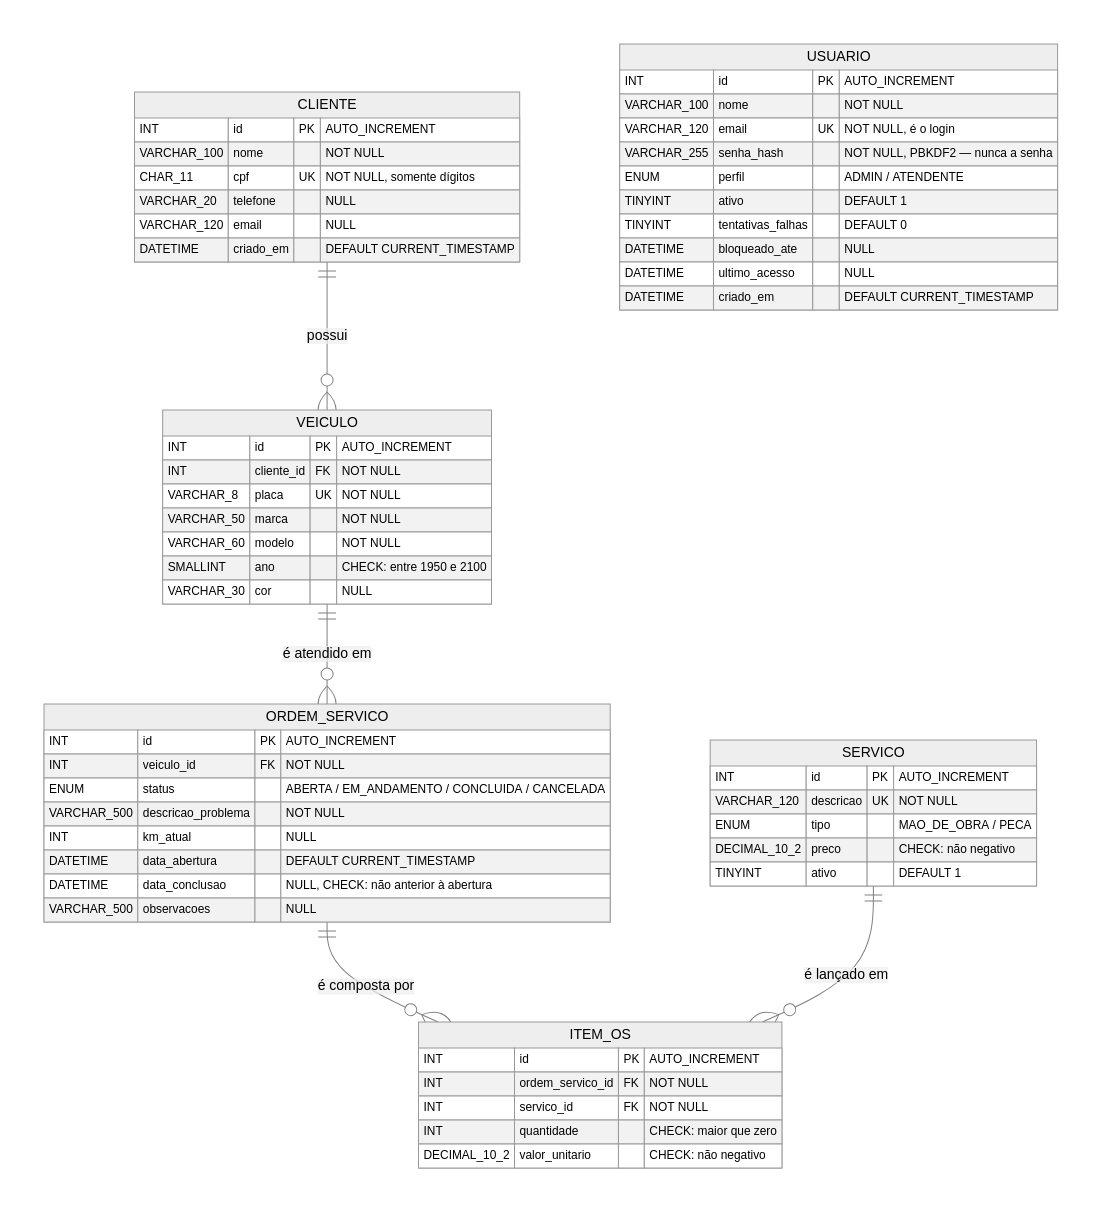
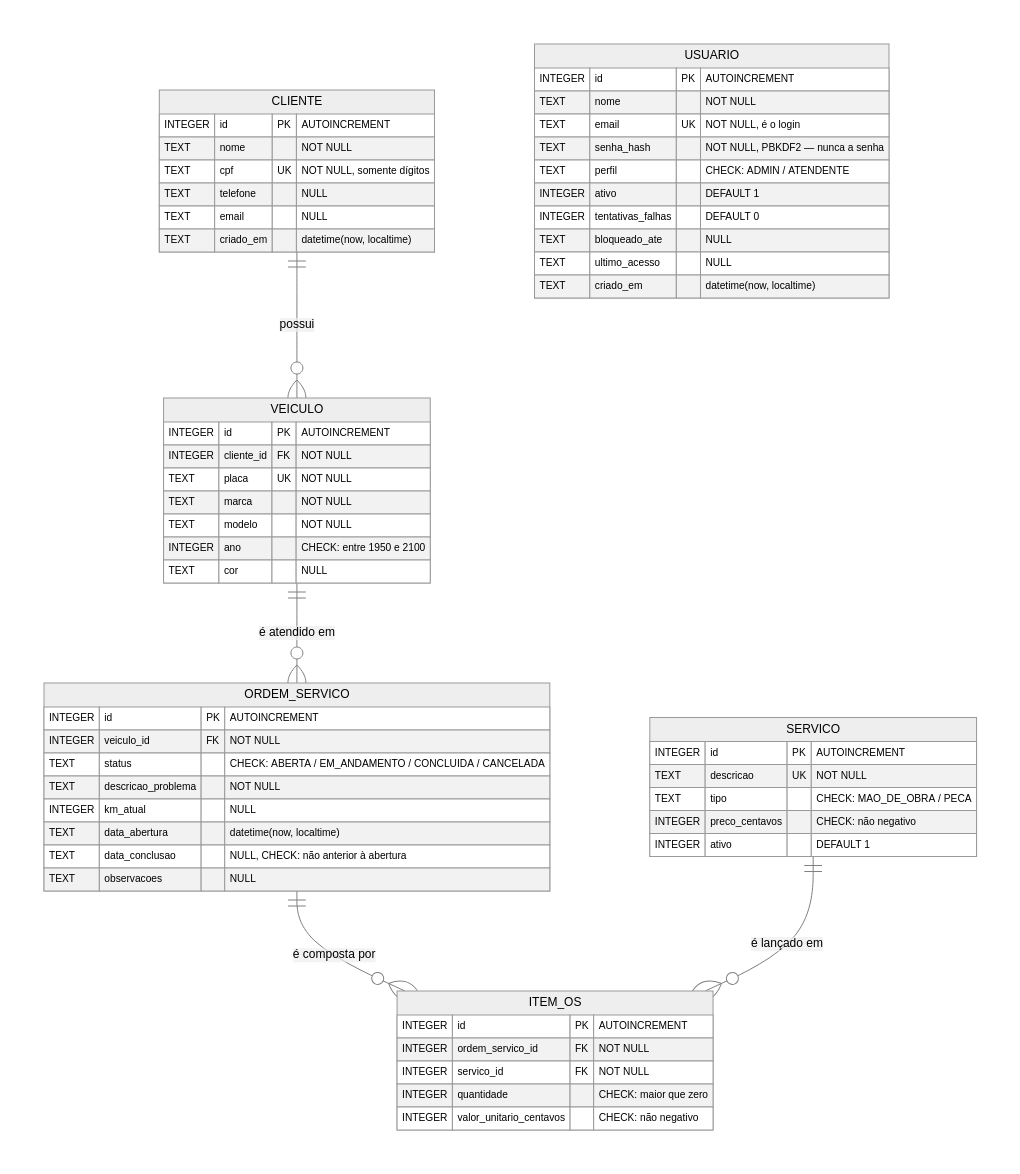
docs: DER e evidencias reescritos para SQLite
- evidencias.sql: nao existe information_schema no SQLite. As restricoes
  saem do proprio DDL gravado em sqlite_master, e as politicas das FKs de
  pragma_foreign_key_list. Valores exibidos com printf a partir dos
  centavos. A primeira linha liga foreign_keys: sem isso a prova de
  integridade passaria sem erro e enganaria quem le.
- DER: tipos TEXT/INTEGER, ENUM virou CHECK, preco em centavos, e a nota
  de por que as datas usam datetime('now','localtime') e nao
  CURRENT_TIMESTAMP, que grava UTC.
- der.png regenerado a partir do mermaid novo.
- docker-compose.yml removido: nao ha mais servidor de banco.

As 12 consultas do evidencias.sql foram executadas contra um banco real e
as 4 provas de integridade falharam como deviam.

diff --git a/docs/DER.md b/docs/DER.md
@@ -1,7 +1,7 @@
 # Modelagem de Dados — DER e Dicionário de Dados
 
 Sistema de Ordens de Serviço de uma oficina mecânica.
-SGBD: **MySQL 8.4** · Engine: **InnoDB** · Charset: **utf8mb4**
+SGBD: **SQLite 3** (banco em arquivo, sem servidor) · Charset: **UTF-8**
 
 O script DDL completo e comentado está em [`../sql/01_schema.sql`](../sql/01_schema.sql).
 
@@ -15,68 +15,72 @@ erDiagram
     SERVICO ||--o{ ITEM_OS : "é lançado em"
 
     CLIENTE {
-        INT id PK "AUTO_INCREMENT"
-        VARCHAR_100 nome "NOT NULL"
-        CHAR_11 cpf UK "NOT NULL, somente dígitos"
-        VARCHAR_20 telefone "NULL"
-        VARCHAR_120 email "NULL"
-        DATETIME criado_em "DEFAULT CURRENT_TIMESTAMP"
+        INTEGER id PK "AUTOINCREMENT"
+        TEXT nome "NOT NULL"
+        TEXT cpf UK "NOT NULL, somente dígitos"
+        TEXT telefone "NULL"
+        TEXT email "NULL"
+        TEXT criado_em "datetime(now, localtime)"
     }
 
     VEICULO {
-        INT id PK "AUTO_INCREMENT"
-        INT cliente_id FK "NOT NULL"
-        VARCHAR_8 placa UK "NOT NULL"
-        VARCHAR_50 marca "NOT NULL"
-        VARCHAR_60 modelo "NOT NULL"
-        SMALLINT ano "CHECK: entre 1950 e 2100"
-        VARCHAR_30 cor "NULL"
+        INTEGER id PK "AUTOINCREMENT"
+        INTEGER cliente_id FK "NOT NULL"
+        TEXT placa UK "NOT NULL"
+        TEXT marca "NOT NULL"
+        TEXT modelo "NOT NULL"
+        INTEGER ano "CHECK: entre 1950 e 2100"
+        TEXT cor "NULL"
     }
 
     SERVICO {
-        INT id PK "AUTO_INCREMENT"
-        VARCHAR_120 descricao UK "NOT NULL"
-        ENUM tipo "MAO_DE_OBRA / PECA"
-        DECIMAL_10_2 preco "CHECK: não negativo"
-        TINYINT ativo "DEFAULT 1"
+        INTEGER id PK "AUTOINCREMENT"
+        TEXT descricao UK "NOT NULL"
+        TEXT tipo "CHECK: MAO_DE_OBRA / PECA"
+        INTEGER preco_centavos "CHECK: não negativo"
+        INTEGER ativo "DEFAULT 1"
     }
 
     ORDEM_SERVICO {
-        INT id PK "AUTO_INCREMENT"
-        INT veiculo_id FK "NOT NULL"
-        ENUM status "ABERTA / EM_ANDAMENTO / CONCLUIDA / CANCELADA"
-        VARCHAR_500 descricao_problema "NOT NULL"
-        INT km_atual "NULL"
-        DATETIME data_abertura "DEFAULT CURRENT_TIMESTAMP"
-        DATETIME data_conclusao "NULL, CHECK: não anterior à abertura"
-        VARCHAR_500 observacoes "NULL"
+        INTEGER id PK "AUTOINCREMENT"
+        INTEGER veiculo_id FK "NOT NULL"
+        TEXT status "CHECK: ABERTA / EM_ANDAMENTO / CONCLUIDA / CANCELADA"
+        TEXT descricao_problema "NOT NULL"
+        INTEGER km_atual "NULL"
+        TEXT data_abertura "datetime(now, localtime)"
+        TEXT data_conclusao "NULL, CHECK: não anterior à abertura"
+        TEXT observacoes "NULL"
     }
 
     ITEM_OS {
-        INT id PK "AUTO_INCREMENT"
-        INT ordem_servico_id FK "NOT NULL"
-        INT servico_id FK "NOT NULL"
-        INT quantidade "CHECK: maior que zero"
-        DECIMAL_10_2 valor_unitario "CHECK: não negativo"
+        INTEGER id PK "AUTOINCREMENT"
+        INTEGER ordem_servico_id FK "NOT NULL"
+        INTEGER servico_id FK "NOT NULL"
+        INTEGER quantidade "CHECK: maior que zero"
+        INTEGER valor_unitario_centavos "CHECK: não negativo"
     }
 
     USUARIO {
-        INT id PK "AUTO_INCREMENT"
-        VARCHAR_100 nome "NOT NULL"
-        VARCHAR_120 email UK "NOT NULL, é o login"
-        VARCHAR_255 senha_hash "NOT NULL, PBKDF2 — nunca a senha"
-        ENUM perfil "ADMIN / ATENDENTE"
-        TINYINT ativo "DEFAULT 1"
-        TINYINT tentativas_falhas "DEFAULT 0"
-        DATETIME bloqueado_ate "NULL"
-        DATETIME ultimo_acesso "NULL"
-        DATETIME criado_em "DEFAULT CURRENT_TIMESTAMP"
+        INTEGER id PK "AUTOINCREMENT"
+        TEXT nome "NOT NULL"
+        TEXT email UK "NOT NULL, é o login"
+        TEXT senha_hash "NOT NULL, PBKDF2 — nunca a senha"
+        TEXT perfil "CHECK: ADMIN / ATENDENTE"
+        INTEGER ativo "DEFAULT 1"
+        INTEGER tentativas_falhas "DEFAULT 0"
+        TEXT bloqueado_ate "NULL"
+        TEXT ultimo_acesso "NULL"
+        TEXT criado_em "datetime(now, localtime)"
     }
 ```
 
 A mesma figura em imagem, para leitura fora do GitHub:
 
 ![DER em imagem](der.png)
+
+> As datas usam `datetime('now','localtime')`, não `CURRENT_TIMESTAMP`: no
+> SQLite este último grava em **UTC**, e a data de abertura da OS apareceria
+> adiantada em três horas.
 
 > Notação pé-de-galinha: `||` = exatamente um · `o{` = zero ou muitos.
 
@@ -127,61 +131,61 @@ Proprietário dos veículos atendidos.
 
 | Coluna | Tipo | Nulo | Restrição |
 |---|---|---|---|
-| `id` | `INT UNSIGNED` | não | PK, `AUTO_INCREMENT` |
-| `nome` | `VARCHAR(100)` | não | Índice `idx_cliente_nome` |
-| `cpf` | `CHAR(11)` | não | `UNIQUE`, `CHECK (cpf REGEXP '^[0-9]{11}$')` — somente dígitos |
-| `telefone` | `VARCHAR(20)` | sim | |
-| `email` | `VARCHAR(120)` | sim | |
-| `criado_em` | `DATETIME` | não | `DEFAULT CURRENT_TIMESTAMP` |
+| `id` | `INTEGER` | não | PK, `AUTOINCREMENT` |
+| `nome` | `TEXT` | não | Índice `idx_cliente_nome` |
+| `cpf` | `TEXT` | não | `UNIQUE`, `CHECK (cpf GLOB ...)` — exatamente 11 dígitos |
+| `telefone` | `TEXT` | sim | |
+| `email` | `TEXT` | sim | |
+| `criado_em` | `TEXT` | não | `DEFAULT (datetime('now','localtime'))` |
 
 ### veiculo
 Um cliente possui N veículos.
 
 | Coluna | Tipo | Nulo | Restrição |
 |---|---|---|---|
-| `id` | `INT UNSIGNED` | não | PK, `AUTO_INCREMENT` |
-| `cliente_id` | `INT UNSIGNED` | não | FK → `cliente.id` |
-| `placa` | `VARCHAR(8)` | não | `UNIQUE` — Mercosul (`ABC1D23`) ou antiga (`ABC-1234`) |
-| `marca` | `VARCHAR(50)` | não | |
-| `modelo` | `VARCHAR(60)` | não | |
-| `ano` | `SMALLINT UNSIGNED` | não | `CHECK (ano BETWEEN 1950 AND 2100)` |
-| `cor` | `VARCHAR(30)` | sim | |
+| `id` | `INTEGER` | não | PK, `AUTOINCREMENT` |
+| `cliente_id` | `INTEGER` | não | FK → `cliente.id` |
+| `placa` | `TEXT` | não | `UNIQUE` — Mercosul (`ABC1D23`) ou antiga (`ABC-1234`) |
+| `marca` | `TEXT` | não | |
+| `modelo` | `TEXT` | não | |
+| `ano` | `INTEGER` | não | `CHECK (ano BETWEEN 1950 AND 2100)` |
+| `cor` | `TEXT` | sim | |
 
 ### servico
 Catálogo de mão de obra e peças, com preço de tabela.
 
 | Coluna | Tipo | Nulo | Restrição |
 |---|---|---|---|
-| `id` | `INT UNSIGNED` | não | PK, `AUTO_INCREMENT` |
-| `descricao` | `VARCHAR(120)` | não | `UNIQUE` |
-| `tipo` | `ENUM('MAO_DE_OBRA','PECA')` | não | `DEFAULT 'MAO_DE_OBRA'` |
-| `preco` | `DECIMAL(10,2)` | não | `CHECK (preco >= 0)` |
-| `ativo` | `TINYINT(1)` | não | `DEFAULT 1` — inativo não entra em OS nova |
+| `id` | `INTEGER` | não | PK, `AUTOINCREMENT` |
+| `descricao` | `TEXT` | não | `UNIQUE` |
+| `tipo` | `TEXT` | não | `CHECK (tipo IN ('MAO_DE_OBRA','PECA'))` · `DEFAULT 'MAO_DE_OBRA'` |
+| `preco_centavos` | `INTEGER` | não | `CHECK (preco_centavos >= 0)` — valor em centavos |
+| `ativo` | `INTEGER` | não | `DEFAULT 1` — inativo não entra em OS nova |
 
 ### ordem_servico
 Cabeçalho da OS. **O valor total não é armazenado.**
 
 | Coluna | Tipo | Nulo | Restrição |
 |---|---|---|---|
-| `id` | `INT UNSIGNED` | não | PK, `AUTO_INCREMENT` |
-| `veiculo_id` | `INT UNSIGNED` | não | FK → `veiculo.id` |
-| `status` | `ENUM(...)` | não | `ABERTA`, `EM_ANDAMENTO`, `CONCLUIDA`, `CANCELADA` · `DEFAULT 'ABERTA'` · índice `idx_os_status` |
-| `descricao_problema` | `VARCHAR(500)` | não | Relato do cliente |
-| `km_atual` | `INT UNSIGNED` | sim | Quilometragem na entrada |
-| `data_abertura` | `DATETIME` | não | `DEFAULT CURRENT_TIMESTAMP` · índice `idx_os_data_abertura` |
-| `data_conclusao` | `DATETIME` | sim | `CHECK (data_conclusao IS NULL OR data_conclusao >= data_abertura)` |
-| `observacoes` | `VARCHAR(500)` | sim | |
+| `id` | `INTEGER` | não | PK, `AUTOINCREMENT` |
+| `veiculo_id` | `INTEGER` | não | FK → `veiculo.id` |
+| `status` | `TEXT` | não | `CHECK (status IN (...))`: `ABERTA`, `EM_ANDAMENTO`, `CONCLUIDA`, `CANCELADA` · `DEFAULT 'ABERTA'` · índice `idx_os_status` |
+| `descricao_problema` | `TEXT` | não | Relato do cliente |
+| `km_atual` | `INTEGER` | sim | Quilometragem na entrada |
+| `data_abertura` | `TEXT` | não | `DEFAULT (datetime('now','localtime'))` · índice `idx_os_data_abertura` |
+| `data_conclusao` | `TEXT` | sim | `CHECK (data_conclusao IS NULL OR data_conclusao >= data_abertura)` |
+| `observacoes` | `TEXT` | sim | |
 
 ### item_os
 Entidade associativa N:N entre `ordem_servico` e `servico`.
 
 | Coluna | Tipo | Nulo | Restrição |
 |---|---|---|---|
-| `id` | `INT UNSIGNED` | não | PK, `AUTO_INCREMENT` |
-| `ordem_servico_id` | `INT UNSIGNED` | não | FK → `ordem_servico.id` |
-| `servico_id` | `INT UNSIGNED` | não | FK → `servico.id` |
-| `quantidade` | `INT UNSIGNED` | não | `CHECK (quantidade > 0)` · `DEFAULT 1` |
-| `valor_unitario` | `DECIMAL(10,2)` | não | `CHECK (valor_unitario >= 0)` |
+| `id` | `INTEGER` | não | PK, `AUTOINCREMENT` |
+| `ordem_servico_id` | `INTEGER` | não | FK → `ordem_servico.id` |
+| `servico_id` | `INTEGER` | não | FK → `servico.id` |
+| `quantidade` | `INTEGER` | não | `CHECK (quantidade > 0)` · `DEFAULT 1` |
+| `valor_unitario_centavos` | `INTEGER` | não | `CHECK (valor_unitario_centavos >= 0)` — em centavos |
 
 `CONSTRAINT uq_item_os UNIQUE (ordem_servico_id, servico_id)` — o mesmo serviço
 entra uma única vez por OS; repetir significa aumentar a quantidade.
@@ -192,20 +196,20 @@ abaixo do diagrama).
 
 | Coluna | Tipo | Nulo | Restrição |
 |---|---|---|---|
-| `id` | `INT UNSIGNED` | não | PK, `AUTO_INCREMENT` |
-| `nome` | `VARCHAR(100)` | não | `CHECK (CHAR_LENGTH(nome) >= 2)` |
-| `email` | `VARCHAR(120)` | não | `UNIQUE` — é o login · `CHECK (email LIKE '_%@_%._%')` |
-| `senha_hash` | `VARCHAR(255)` | não | `CHECK (senha_hash LIKE 'pbkdf2\_sha256$%')` — o banco recusa senha em texto puro |
+| `id` | `INTEGER` | não | PK, `AUTOINCREMENT` |
+| `nome` | `TEXT` | não | `CHECK (CHAR_LENGTH(nome) >= 2)` |
+| `email` | `TEXT` | não | `UNIQUE` — é o login · `CHECK (email LIKE '_%@_%._%')` |
+| `senha_hash` | `TEXT` | não | `CHECK (senha_hash LIKE 'pbkdf2\_sha256$%' ESCAPE '\')` — o banco recusa senha em texto puro |
 | `perfil` | `ENUM('ADMIN','ATENDENTE')` | não | `DEFAULT 'ATENDENTE'` |
-| `ativo` | `TINYINT(1)` | não | `DEFAULT 1` — inativo não consegue entrar |
-| `tentativas_falhas` | `TINYINT UNSIGNED` | não | `DEFAULT 0` — contador de senhas erradas |
-| `bloqueado_ate` | `DATETIME` | sim | Bloqueio temporário por força bruta |
-| `ultimo_acesso` | `DATETIME` | sim | Carimbado a cada login aceito |
-| `criado_em` | `DATETIME` | não | `DEFAULT CURRENT_TIMESTAMP` |
+| `ativo` | `INTEGER` | não | `DEFAULT 1` — inativo não consegue entrar |
+| `tentativas_falhas` | `INTEGER` | não | `DEFAULT 0` — contador de senhas erradas |
+| `bloqueado_ate` | `TEXT` | sim | Bloqueio temporário por força bruta |
+| `ultimo_acesso` | `TEXT` | sim | Carimbado a cada login aceito |
+| `criado_em` | `TEXT` | não | `DEFAULT (datetime('now','localtime'))` |
 
 **A senha nunca é armazenada.** A coluna guarda o resultado de um PBKDF2-SHA256
 com sal aleatório, no formato `pbkdf2_sha256$iteracoes$sal$hash`. O `CHECK` acima
-é a última linha de defesa: mesmo um `INSERT` feito direto no MySQL, por fora da
+é a última linha de defesa: mesmo um `INSERT` feito direto no arquivo do banco, por fora da
 aplicação, é recusado se tentar gravar a senha em texto puro.
 
 ## Resumo das restrições
@@ -222,6 +226,16 @@ O schema tem **6 tabelas** e **24 restrições**:
 Os números podem ser conferidos no próprio banco com a consulta 7b de
 [`evidencias.sql`](evidencias.sql).
 
+## Por que o dinheiro é inteiro
+
+O SQLite não tem tipo decimal de verdade: uma coluna declarada `DECIMAL(10,2)`
+acaba guardando ponto flutuante, e somar dinheiro em float pode render centavo
+errado. Por isso os valores são **inteiros de centavos** (`preco_centavos`,
+`valor_unitario_centavos`): `4590` é R$ 45,90. Assim `SUM()` é exato.
+
+A conversão para reais acontece numa fronteira só, em `util/Dinheiro.java`, e
+os modelos Java seguem usando `BigDecimal` — a API e as telas não mudaram.
+
 ## Decisões de normalização
 
 O modelo está na **3ª Forma Normal**. Duas decisões merecem destaque:
@@ -232,11 +246,11 @@ estão em `item_os`, e qualquer alteração de item deixaria o total defasado. O
 valor é sempre calculado:
 
 ```sql
-SELECT SUM(quantidade * valor_unitario) FROM item_os WHERE ordem_servico_id = ?;
+SELECT SUM(quantidade * valor_unitario_centavos) FROM item_os WHERE ordem_servico_id = ?;
 ```
 
-**2. `item_os.valor_unitario` não é redundância — é histórico.**
+**2. `item_os.valor_unitario_centavos` não é redundância — é histórico.**
 À primeira vista o preço já está em `servico.preco`. Mas `servico.preco` é o
-preço *de tabela hoje*, e `item_os.valor_unitario` é o preço *cobrado naquela OS*.
+preço *de tabela hoje*, e `item_os.valor_unitario_centavos` é o preço *cobrado naquela OS*.
 São fatos diferentes: se a oficina reajustar a tabela, as OS já emitidas não
 podem mudar de valor. Por isso o preço é copiado no momento do lançamento.

diff --git a/docs/ARQUITETURA.md b/docs/ARQUITETURA.md
@@ -5,14 +5,14 @@ Ordem sugerida para entender o projeto (e para dividir entre o grupo).
 ## 1. O banco vem primeiro
 | Arquivo | O que ver |
 |---|---|
-| `sql/01_schema.sql` | As 6 tabelas e as 24 restrições (PK/FK/UNIQUE/CHECK), com as políticas `RESTRICT`/`CASCADE`. **Leia este antes de qualquer Java.** |
+| `sql/01_schema.sql` | As 6 tabelas e as restrições (PK/FK/UNIQUE/CHECK), com as políticas `RESTRICT`/`CASCADE`. **Leia este antes de qualquer Java.** |
 | `sql/02_seed.sql` | Dados de exemplo para a tela não nascer vazia. |
 
 ## 2. Infraestrutura (escreve-se uma vez, não se mexe mais)
 | Arquivo | Responsabilidade |
 |---|---|
 | `config/Config.java` | Lê `config.properties`; variáveis de ambiente têm prioridade. |
-| `db/Database.java` | Abre conexões JDBC e executa o schema na subida. |
+| `db/Database.java` | Abre conexões JDBC (ligando `foreign_keys` e `busy_timeout` em cada uma) e aplica o schema na subida. |
 | `http/Json.java` | Serializador JSON escrito à mão (zero bibliotecas). |
 | `http/HttpUtil.java` | Lê formulário/query string, escreve resposta JSON. |
 | `http/BaseHandler.java` | Roteia por método HTTP e traduz exceção SQL em status HTTP. |
@@ -28,6 +28,8 @@ Ordem sugerida para entender o projeto (e para dividir entre o grupo).
 | `security/FiltroAutenticacao.java` | O porteiro: exige sessão e confere o token anti-CSRF. |
 | `api/AuthHandler.java` | Entrar, sair e trocar a própria senha. |
 | `api/UsuarioHandler.java` | CRUD de contas — só perfil ADMIN. |
+| `db/Backup.java` | Cópia com `VACUUM INTO`, diária e sob demanda. |
+| `desktop/` | Janela do navegador, ícone na bandeja e trava de instância única. |
 
 As quatro defesas, em ordem de quem tenta o quê:
 
@@ -46,7 +48,7 @@ Cada módulo tem sempre as mesmas três camadas:
 | Módulo | Dificuldade | Sugestão |
 |---|---|---|
 | `Cliente` | Simples | CRUD mais direto — comece por aqui. |
-| `Servico` | Simples | Igual ao Cliente, com `DECIMAL` e `ENUM`. |
+| `Servico` | Simples | Igual ao Cliente, com preço em centavos e `CHECK` no lugar do ENUM. |
 | `Veiculo` | Média | Primeiro `JOIN` (traz o nome do dono). |
 | `OrdemServico` | **Alta** | `JOIN` duplo, subconsulta `SUM`, tabela associativa e **transação**. |
 
@@ -67,7 +69,7 @@ Se o professor perguntar "onde está o controle de transação?", é aqui.
 | Arquivo | Conteúdo |
 |---|---|
 | `static/login.html` + `js/login.js` | Tela de entrada. Só manda e-mail e senha; o token da sessão volta no cookie e o JavaScript nem o enxerga. |
-| `static/index.html` | Menu lateral + 6 páginas (Dashboard, Clientes, Veículos, Serviços, OS, Usuários) e os modais. |
+| `static/index.html` | Menu lateral + 7 páginas (Dashboard, Clientes, Veículos, Serviços, OS, Usuários, Backup) e os modais. |
 | `static/js/app.js` | Um bloco por módulo, sempre: `carregar` → `abrirModal` → `submit` → `excluir`. No topo ficam a sessão, o token CSRF e a navegação. |
 | `static/css/style.css` | Identidade visual, menu lateral, dashboard e a via impressa; o resto é Bootstrap. |
 | `static/img/beagle-mecanico.jpg` | Mascote da tela de login. Fica no classpath como os demais estáticos. |
@@ -85,7 +87,7 @@ uma dependência só no `pom.xml`.
         -> App.java (rota)
         -> XHandler (valida a entrada)
         -> XDao (PreparedStatement)
-        -> MySQL
+        -> SQLite (arquivo oficina.db)
         -> volta como JSON
 
 Sem sessão, o pedido morre no filtro: a API responde `401` e as páginas
